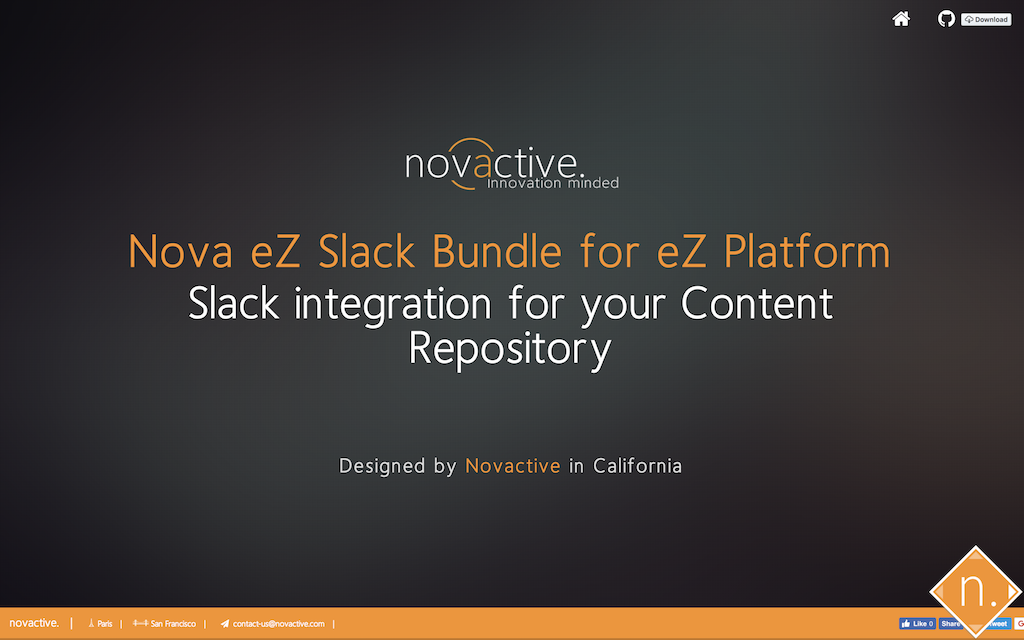
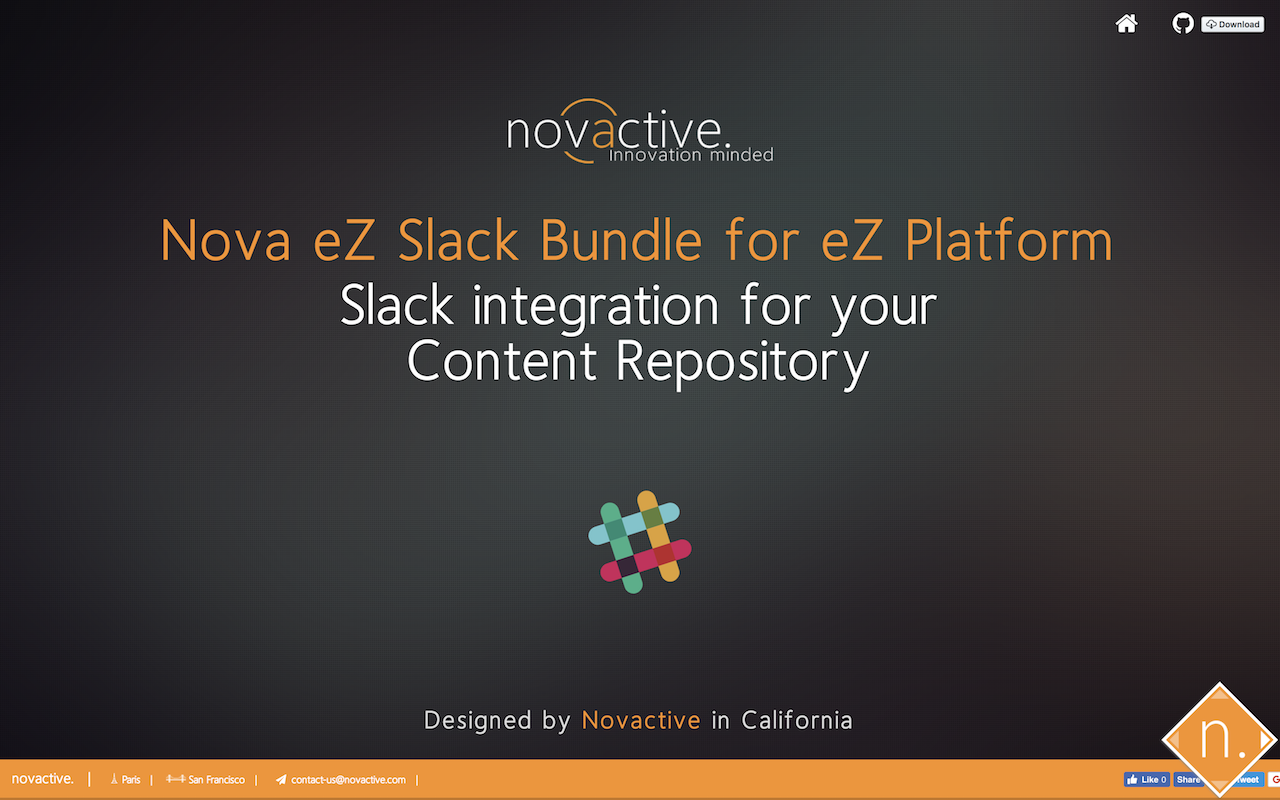
images

diff --git a/docs/index.html b/docs/index.html
@@ -28,6 +28,7 @@
             <img class="logo-img" alt="novactive." src="images/logo_novactive-minded-us-blanc-stripped-200x@2x.png"/>
             <h1>Nova eZ Slack Bundle for eZ Platform</h1>
             <h3>Slack integration for your Content&nbsp;Repository</h3>
+            <p><img width="100" height="100" src="images/slack.svg"></p>
             <p class="small">Designed by <a href="http://www.novactive.us" target="_blank">Novactive</a> in California
             </p>
         </section>
